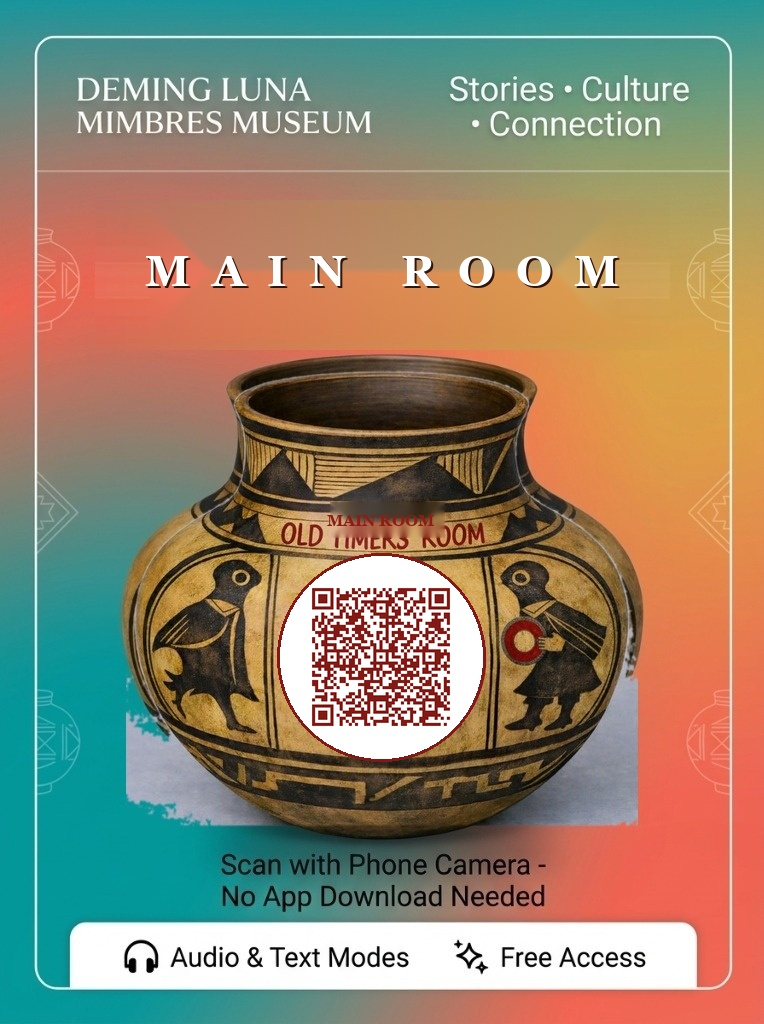
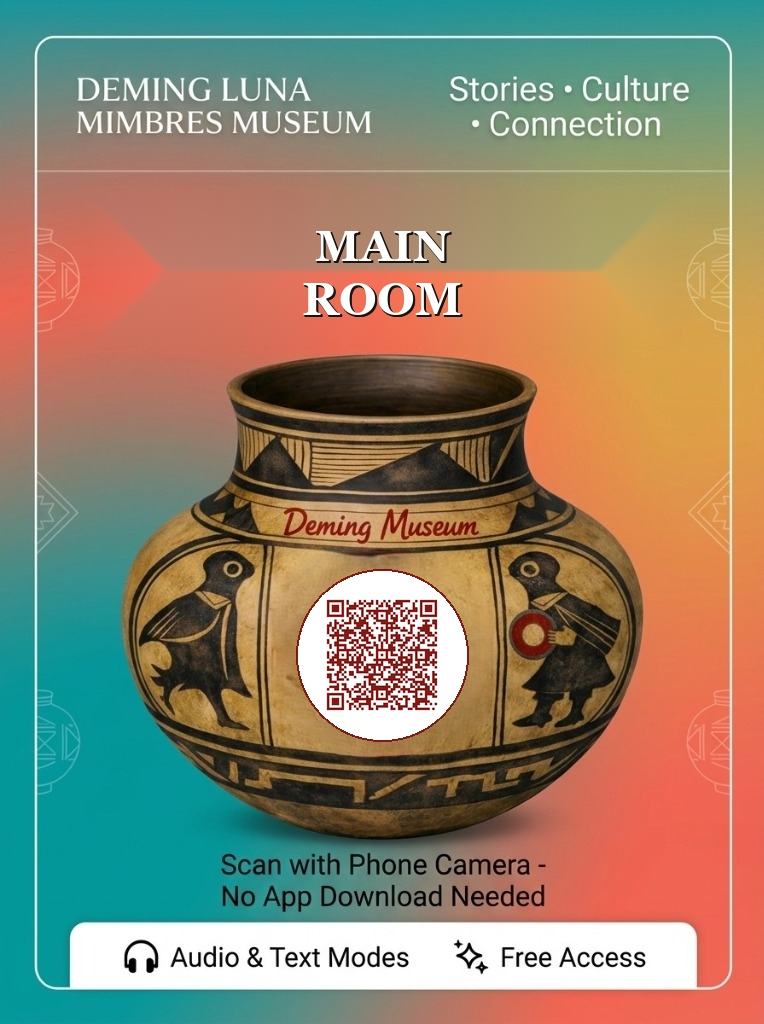
Update Main Room placard with white lettering and centered Room 3 QR code

Changed region(s): [[0.1505, 0.2188, 0.8429, 0.875]]

diff --git a/scripts/render_main_room_poster.py b/scripts/render_main_room_poster.py
@@ -1,0 +1,100 @@
+import os
+import shutil
+import cv2
+import numpy as np
+from PIL import Image, ImageDraw, ImageFont
+import qrcode
+
+# 1. Configuration for Main Room (Room 3)
+ROOM_ID = 3
+TARGET_URL = f"https://amandahervol-alt.github.io/deming-museum-tour/?room={ROOM_ID}"
+
+# 2. Template
+template_path = r"C:\Users\manet\.gemini\antigravity-ide\brain\6f34c999-2401-441a-aae3-0a0320e6d5be\.user_uploaded\media_1789917482175.jpg"
+cv_img = cv2.imread(template_path)
+H, W, _ = cv_img.shape
+
+# Inpaint title box (y: 195 to 345, x: 90 to 674)
+mask = np.zeros((H, W), dtype=np.uint8)
+mask[195:345, 90:674] = 255
+inpainted = cv2.inpaint(cv_img, mask, inpaintRadius=7, flags=cv2.INPAINT_TELEA)
+
+result = Image.fromarray(cv2.cvtColor(inpainted, cv2.COLOR_BGR2RGBA))
+draw = ImageDraw.Draw(result)
+
+# 3. White Lettering with dark drop shadow (Matching Transportation Annex & Other Placards)
+font_title1 = ImageFont.truetype(r"C:\Windows\Fonts\georgiab.ttf", 44)
+font_title2 = ImageFont.truetype(r"C:\Windows\Fonts\georgiab.ttf", 46)
+
+title_line1 = "MAIN"
+title_line2 = "ROOM"
+
+def get_text_center(text, font, y_center):
+    bbox = font.getbbox(text)
+    tw = bbox[2] - bbox[0]
+    th = bbox[3] - bbox[1]
+    x = (W - tw) / 2
+    y = y_center - (th / 2)
+    return x, y
+
+x1, y1 = get_text_center(title_line1, font_title1, 235)
+x2, y2 = get_text_center(title_line2, font_title2, 288)
+
+shadow_color = (25, 18, 15, 230)
+white_color = (255, 255, 255, 255)
+
+# Drop shadow
+for ox, oy in [(2, 2), (1, 2), (2, 1), (1, 1)]:
+    draw.text((x1 + ox, y1 + oy), title_line1, font=font_title1, fill=shadow_color)
+    draw.text((x2 + ox, y2 + oy), title_line2, font=font_title2, fill=shadow_color)
+
+# Pure white text
+draw.text((x1, y1), title_line1, font=font_title1, fill=white_color)
+draw.text((x2, y2), title_line2, font=font_title2, fill=white_color)
+
+# 4. Generate Room 3 QR code in center between birds (cx=382, cy=655)
+cx = 382
+cy = 655
+r = 86
+qr_size = 120
+
+qr = qrcode.QRCode(
+    version=1,
+    error_correction=qrcode.constants.ERROR_CORRECT_H,
+    box_size=12,
+    border=2,
+)
+qr.add_data(TARGET_URL)
+qr.make(fit=True)
+
+img_qr = qr.make_image(fill_color="#821915", back_color="#FFFFFF").convert("RGBA")
+qr_res = img_qr.resize((qr_size, qr_size), Image.Resampling.LANCZOS)
+
+# White round medallion with fine terracotta rim
+TERRACOTTA = (130, 25, 21, 255)
+draw.ellipse((cx - r, cy - r, cx + r, cy + r), fill=TERRACOTTA)
+draw.ellipse((cx - (r-2), cy - (r-2), cx + (r-2), cy + (r-2)), fill=(255, 255, 255, 255))
+result.paste(qr_res, (cx - qr_size//2, cy - qr_size//2), qr_res)
+
+# 5. Save poster files
+out_jpg = "qr_codes/main_room_poster_placard.jpg"
+out_png = "qr_codes/main_room_poster_placard.png"
+rgb_result = result.convert("RGB")
+rgb_result.save(out_jpg, quality=98)
+result.save(out_png)
+
+# Save artifact
+artifact_dir = r"C:\Users\manet\.gemini\antigravity-ide\brain\6f34c999-2401-441a-aae3-0a0320e6d5be"
+artifact_jpg = os.path.join(artifact_dir, "main_room_poster_placard.jpg")
+rgb_result.save(artifact_jpg, quality=98)
+
+# Backup repo
+backup_dir = r"C:\Users\manet\.gemini\antigravity\scratch\deming-museum-ai-tour\qr_codes"
+if os.path.exists(backup_dir):
+    rgb_result.save(os.path.join(backup_dir, "main_room_poster_placard.jpg"), quality=98)
+
+# Verify OpenCV scannability
+detector = cv2.QRCodeDetector()
+mat = cv2.imread(out_jpg)
+val, pts, _ = detector.detectAndDecode(mat)
+print(f"Main Room Poster: Scannable? -> {bool(val)} | Decoded: '{val}'")
